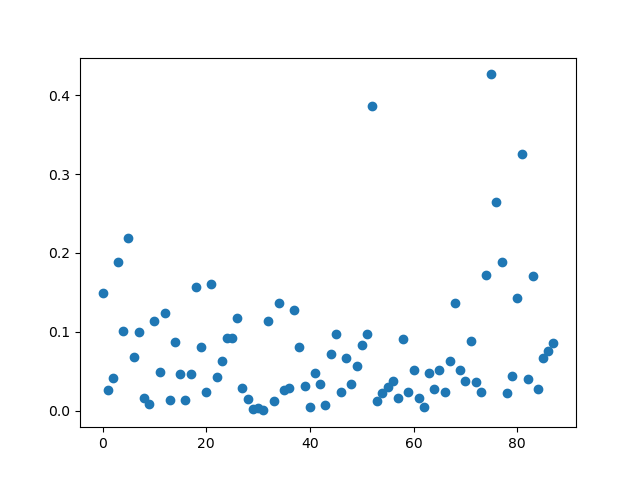
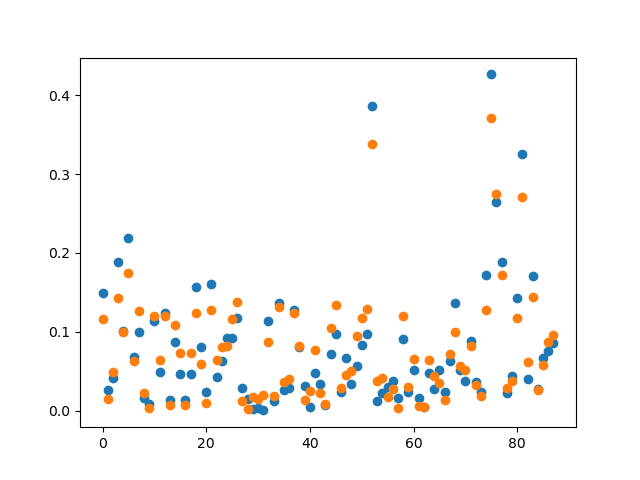
Added per tok deltas to the plot.

diff --git a/scripts/misc/make_dot_plot.py b/scripts/misc/make_dot_plot.py
@@ -17,7 +17,7 @@ file_handle.close()
 
 x = []
 y = []
-for y_index in y_indeces[0:1]:
+for y_index in y_indeces:
 	for line in lines:
 		#x.append(line.split("\t")[x_index])
 		x = range(len(lines))
